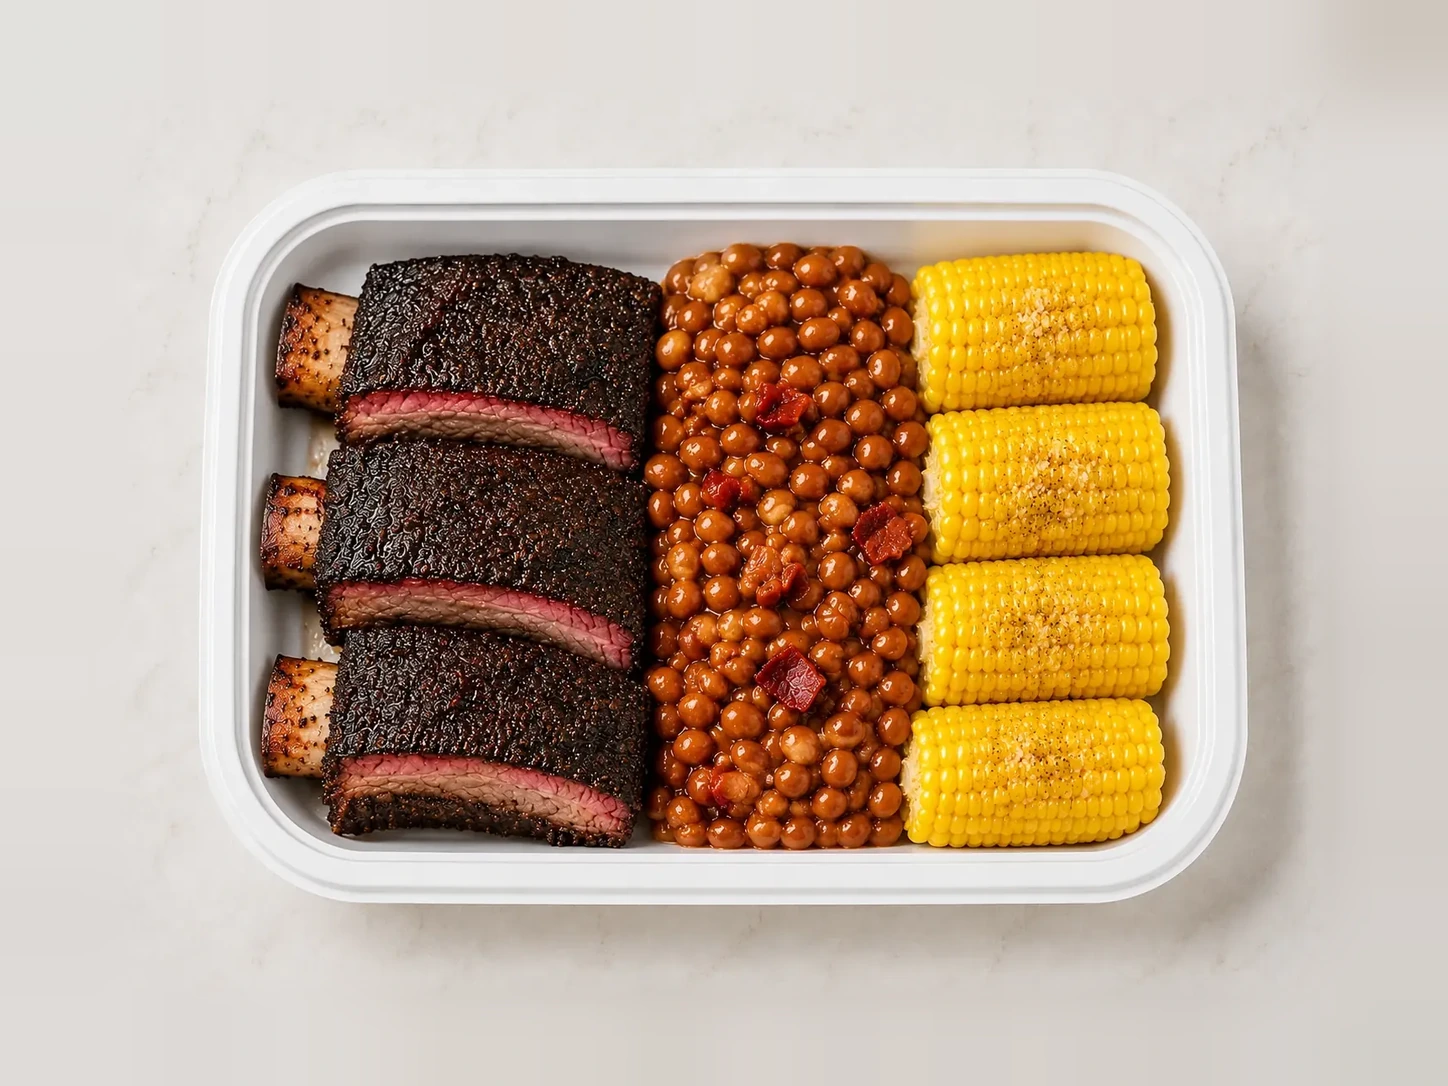
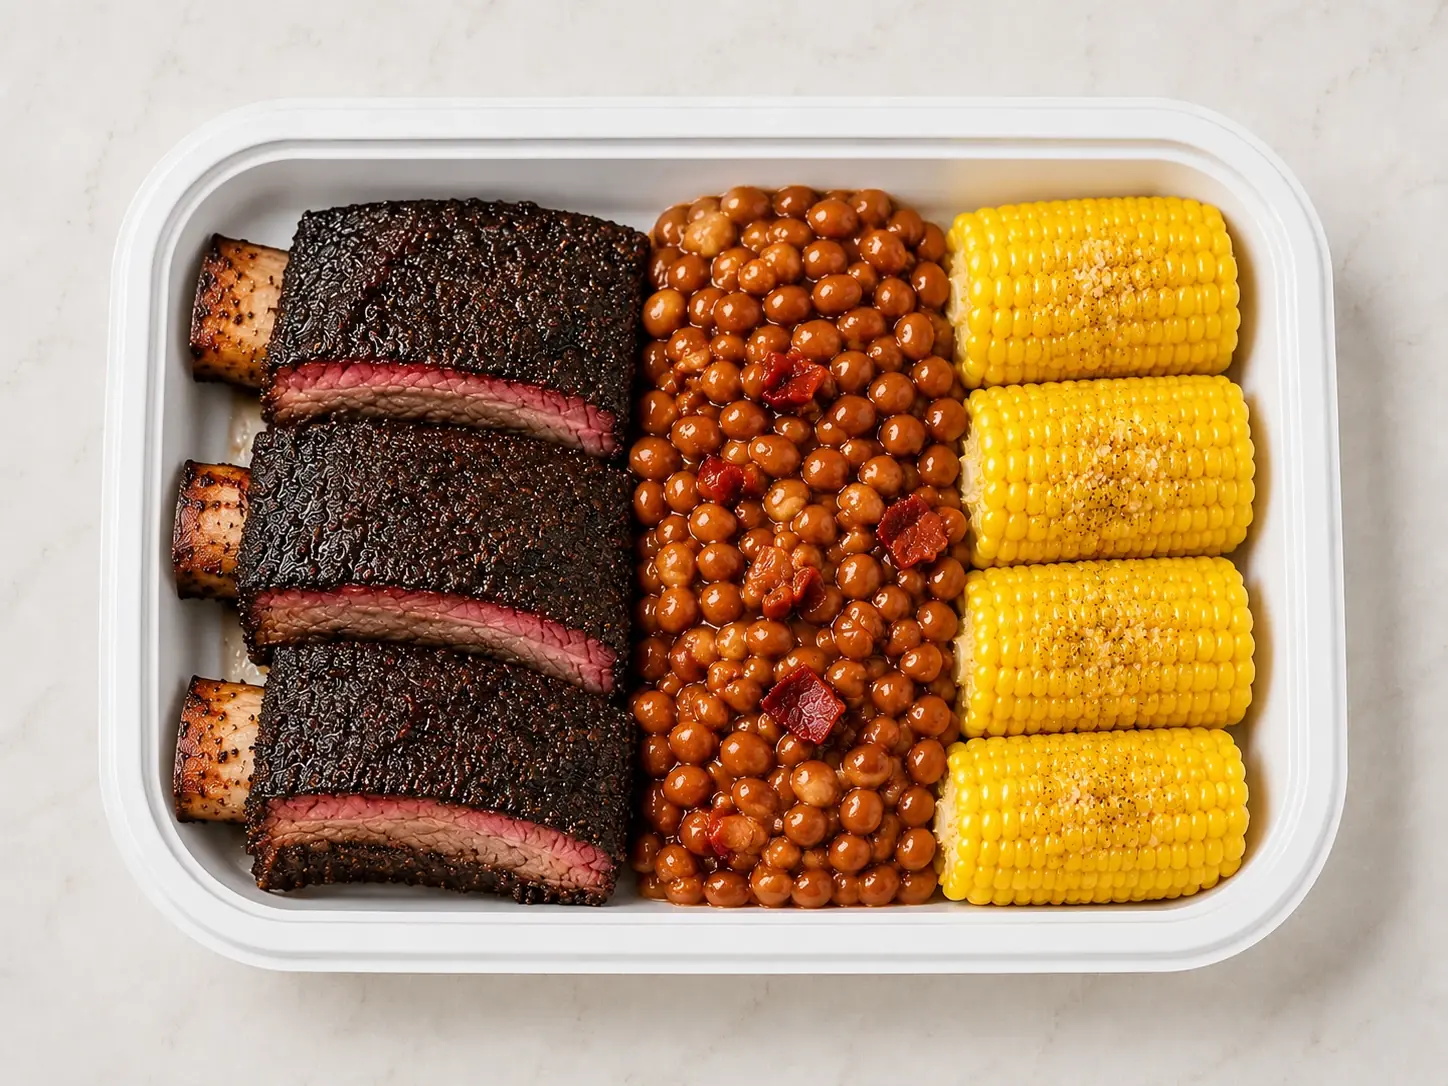
Add files via upload

diff --git a/src/App.css b/src/App.css
@@ -21760,3 +21760,75 @@ button.browseRecipeWideFooterAction:focus-visible,
   line-height: 1.05 !important;
   letter-spacing: -0.015em !important;
 }
+
+/* ================================================================
+   v87.1 — HOME DINNER/Diet MEAL CARD RECOVERY
+   Keep source food photography intact; normalize only its display box.
+   ================================================================ */
+
+/* Dinner Ideas use the clean original heroes. Reduce the complete image as
+   one unit against a matching pale field so tray scale and breathing room
+   align with Diet Meals without baking bands into the WebP files. */
+.homeDinnerIdeaImage {
+  display: flex !important;
+  align-items: center !important;
+  justify-content: center !important;
+  padding: 0 !important;
+  overflow: hidden !important;
+  background: #f6f2e8 !important;
+}
+
+.homeDinnerIdeaImage .homeComboMealImageAsset,
+.homeComboMealImageCrossfadeStage .homeDinnerIdeaImage .homeComboMealImageAsset {
+  width: 84% !important;
+  height: 84% !important;
+  min-width: 84% !important;
+  min-height: 84% !important;
+  flex: 0 0 84% !important;
+  object-fit: cover !important;
+  object-position: center center !important;
+  transform: none !important;
+}
+
+/* The balance badge sits at the lower right, so the title can use the full
+   card width. This keeps “Steak & Onions” together when space permits. */
+.homeComboMealText:not(.homeDietMealText) strong {
+  padding-right: 0 !important;
+}
+
+/* Diet Meal titles may use up to three lines, followed by the optional “With”
+   line and a guaranteed calorie line. Do not reserve three blank title lines
+   or clip the metadata area. */
+.homeDietMealText {
+  height: clamp(104px, 9.2vw, 122px) !important;
+  min-height: clamp(104px, 9.2vw, 122px) !important;
+  max-height: clamp(104px, 9.2vw, 122px) !important;
+  box-sizing: border-box !important;
+  overflow: hidden !important;
+  align-content: start !important;
+}
+
+.homeDietMealText strong {
+  min-height: 0 !important;
+  max-height: 3.15em !important;
+  padding-right: 0 !important;
+  overflow: hidden !important;
+  -webkit-box-orient: vertical !important;
+  -webkit-line-clamp: 3 !important;
+  line-clamp: 3 !important;
+}
+
+.homeDietMealText .homeDietMealWith,
+.homeDietMealText .homeDietMealMeta {
+  display: block !important;
+  min-height: 1.18em !important;
+  margin-top: 4px !important;
+  padding-right: 34px !important;
+  overflow: visible !important;
+  white-space: nowrap !important;
+  text-overflow: clip !important;
+}
+
+.homeDietMealText .homeDietMealMeta {
+  margin-top: 3px !important;
+}

diff --git a/src/features/home/HomeMealRotations.jsx b/src/features/home/HomeMealRotations.jsx
@@ -39,7 +39,7 @@ function HomeComboMealCardButton({ meal, className = "", onOpen, imageLoading = 
       onClick={() => onOpen(meal)}
       aria-label={`Open combo meal ${meal.number}: ${meal.title}`}
     >
-      <div className="homeComboMealImage">
+      <div className="homeComboMealImage homeDinnerIdeaImage">
         <DinnerCombinationImage
           meal={meal}
           className="homeComboMealImageAsset"
